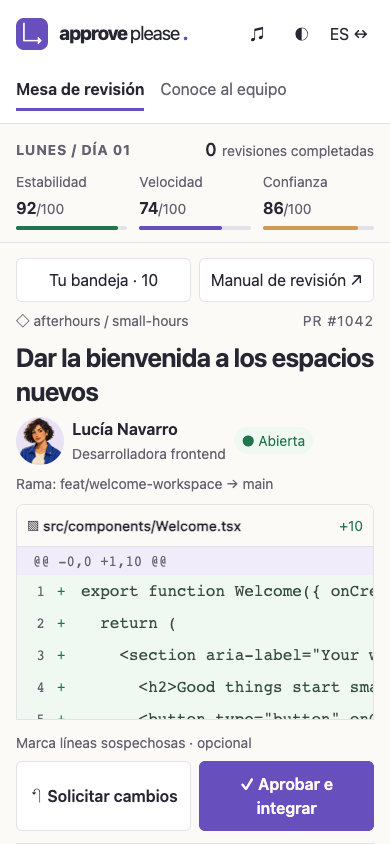
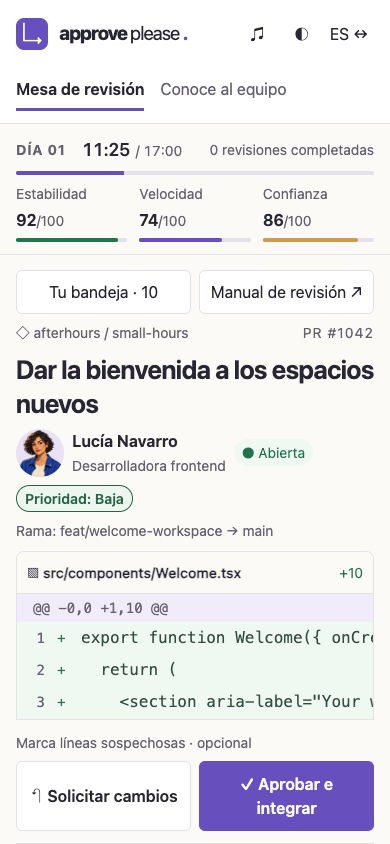
fix: restore shift time and PR priority in the review desk

Changed region(s): [[0.0308, 0.154, 0.9538, 0.8626], [0.8615, 0.6161, 0.9538, 0.7085], [0.1538, 0.7701, 0.1846, 0.8318]]

diff --git a/pages/dev/design.tsx b/pages/dev/design.tsx
@@ -1,4 +1,6 @@
 import Head from 'next/head';
+import { MS_PER_GAME_MINUTE, WORK_DAY_MINUTES } from '../../constants/game';
+import { minutesToClock } from '../../utils/helpers';
 import AudioControls from '../../components/common/AudioControls';
 import PRArrivalNotice from '../../components/common/PRArrivalNotice';
 import { useAudioCue } from '../../hooks/useAudioCue';
@@ -40,6 +42,9 @@ export default function DesignStudy() {
   const [reviewQueue, setReviewQueue] = useState(initialStudyQueue);
   const sequence = reviewQueue.active;
   const [reviewedCount, setReviewedCount] = useState(0);
+  const [day, setDay] = useState(1);
+  const [currentTime, setCurrentTime] = useState(0);
+  const shiftEnded = currentTime >= WORK_DAY_MINUTES;
   const person = studyTeam[sequence % studyTeam.length].id;
   const current = studyReview(sequence, locale);
   const profile = studyTeam[sequence % studyTeam.length];
@@ -49,6 +54,22 @@ export default function DesignStudy() {
   const audio = useAudioCue(meters);
   const arrivalNotice = usePRArrivalNotice(reviewQueue.pending.map(id => String(id)), audio.playArrivalCue);
   const [panel, setPanel] = useState<'rules' | 'queue' | 'audio' | null>(null);
+  // The local preview shares the game's clock rate. Pause while reading settings
+  // or meeting the cast; the live game clock remains owned by GameContext.
+  const clockRunning = view === 'desk' && panel === null && !shiftEnded;
+  useEffect(() => {
+    if (!clockRunning) return;
+    const timer = window.setInterval(() => setCurrentTime(minute => Math.min(minute + 1, WORK_DAY_MINUTES)), MS_PER_GAME_MINUTE);
+    return () => window.clearInterval(timer);
+  }, [clockRunning]);
+  const nextShift = () => {
+    setDay(value => value + 1);
+    setCurrentTime(0);
+    setReviewedCount(0);
+    setMeters(initialMeters);
+    setReceipt(null);
+    setSelected([]);
+  };
   const dialog = useRef<HTMLDialogElement>(null);
   const sidebar = useRef<HTMLElement>(null);
   useEffect(() => { sidebar.current?.querySelector('[aria-pressed="true"]')?.scrollIntoView({ block: 'nearest' }); }, [sequence]);
@@ -79,24 +100,25 @@ export default function DesignStudy() {
   }, [swipe]);
   const choose = (next: number) => { if (decisionLocked.current) return; setReviewQueue(queue => ({ ...queue, active: next })); setSelected([]); setSwipe(null); setPanel(null); };
   const decide = (verdict: ReviewVerdict) => {
-    if (decisionLocked.current) return;
+    if (decisionLocked.current || shiftEnded) return;
     decisionLocked.current = true;
     const result = evaluateDecision(normalizePullRequest(current), verdict, selected.map(n => ({ filename, rowId: `line-${n}` })), meters);
     setReviewedCount(count => count + 1);
     setReceipt({ ...result, person }); setMeters(result.metersAfter); setSwipe(verdict);
   };
-  const queue = <><div className={styles.queueHeading}><span>{t.waiting}</span><span>10</span></div>{reviewQueue.pending.map(next => { const coworker = studyTeam[next % studyTeam.length]; return <button key={next} disabled={completed} className={`${styles.queueItem} ${sequence === next ? styles.activeQueue : ''}`} onClick={() => choose(next)} aria-pressed={sequence === next}><div className={styles.queueMeta}><Portrait person={coworker.id} size={32} /><span>{coworker.name.split(' ')[0]}</span><span>#{1042 + next}</span></div><strong>{title(coworker.id)}</strong><small><span className={styles.dot} />{role(coworker.id)}</small></button>; })}</>;
+  const queue = <><div className={styles.queueHeading}><span>{t.waiting}</span><span>10</span></div>{reviewQueue.pending.map(next => { const coworker = studyTeam[next % studyTeam.length]; const importance = studyReview(next, locale).importance; return <button key={next} disabled={completed} className={`${styles.queueItem} ${sequence === next ? styles.activeQueue : ''}`} onClick={() => choose(next)} aria-pressed={sequence === next}><div className={styles.queueMeta}><Portrait person={coworker.id} size={32} /><span>{coworker.name.split(' ')[0]}</span><span>#{1042 + next}</span></div><strong>{title(coworker.id)}</strong><small><span className={styles.dot} />{role(coworker.id)}</small><span className={styles.priority} data-priority={importance}>{t.priority}: {translations.shared.importance[importance]}</span></button>; })}</>;
   const precision = receipt ? ({ precise: t.precise, untagged: t.untagged, inaccurate: t.inaccurate, mixed: t.mixed, 'not-applicable': t.notApplicable }[receipt.precision]) : '';
   const outcome = receipt ? ({ 'clean-approval': t.cleanOutcome, 'correct-rejection': t.caughtOutcome, 'buggy-approval': t.escapedOutcome, 'false-positive': t.falseOutcome }[receipt.outcome]) : '';
   return <div className={styles.study} data-dark={dark}>
     <Head><title>{`Approve Please · ${t.preview}`}</title></Head>
     <header className={styles.topbar}><Link className={styles.brand} href="/dev/design"><span className={styles.brandIcon}>↳</span>approve<span>please</span><span className={styles.brandPeriod}>.</span></Link><nav aria-label={t.preview}><button aria-pressed={view === 'desk'} onClick={() => setView('desk')}>{t.desk}</button><button aria-pressed={view === 'cast'} onClick={() => setView('cast')}>{t.cast}</button></nav><div className={styles.preferences}><button aria-label={translations.audio.settings} onClick={() => setPanel('audio')}>♫ <span>{translations.audio.button}</span></button><button aria-label={t.theme} onClick={() => setDark(!dark)}>{dark ? '☀' : '◐'} <span>{dark ? t.changeThemeLight : t.changeThemeDark}</span></button><button onClick={() => setLocale(locale === 'en' ? 'es' : 'en')} aria-label={locale === 'en' ? 'Cambiar a español' : 'Switch to English'}>{locale.toUpperCase()} ↔</button></div></header>
     {view === 'cast' ? <main className={styles.cast}><span className={styles.eyebrow}>{t.cast}</span><h1>{t.teamHeading}</h1><p>{t.teamIntro}</p><div className={styles.castGrid}>{people.map(who => <section className={styles.castCard} key={who}><div className={styles.castName}><h2>{names[who]}</h2><span>{role(who)}</span></div><div className={styles.expressions}>{(['neutral', 'pleased', 'concerned'] as const).map(expression => <figure key={expression}><Portrait person={who} expression={expression} size={160} /><figcaption>{t[expression]}</figcaption></figure>)}</div><div className={styles.scale}><span>{t.scale}</span><Portrait person={who} size={32} /><Portrait person={who} size={48} /></div><blockquote>“{studyTeam.find(p => p.id === who)!.quote[locale]}”</blockquote></section>)}</div><p>{t.portraitNote}</p><button className={styles.primary} onClick={() => setView('desk')}>{t.back} ↗</button></main> : <>
-      <div className={styles.shiftbar}><div><span className={styles.eyebrow}>{t.shift}</span><strong>{reviewedCount}<span> {t.reviewCount}</span></strong></div><div className={styles.meters}>{(Object.keys(meters) as (keyof MeterSet)[]).map(key => <div key={key}><span>{t[key]}<b>{meters[key]}<small>/100</small></b></span><i><em style={{ width: `${meters[key]}%` }} /></i></div>)}</div><span className={styles.shiftStamp}>↗ <span>{t.deskTitle}</span></span></div>
+      <div className={styles.shiftbar}><div><span className={styles.eyebrow}>{t.shift(day)}</span><strong><time aria-label={t.clock}>{minutesToClock(currentTime)}</time><span> / 17:00</span></strong><span className={styles.clockNote}>{shiftEnded ? t.shiftEnded : !clockRunning ? t.paused : `${reviewedCount} ${t.reviewCount}`}</span><progress className={styles.clockProgress} aria-label={t.clock} value={currentTime} max={WORK_DAY_MINUTES} /></div><div className={styles.meters}>{(Object.keys(meters) as (keyof MeterSet)[]).map(key => <div key={key}><span>{t[key]}<b>{meters[key]}<small>/100</small></b></span><i><em style={{ width: `${meters[key]}%` }} /></i></div>)}</div><span className={styles.shiftStamp}>↗ <span>{t.deskTitle}</span></span></div>
       <div className={styles.workspace}><aside ref={sidebar} className={styles.sidebar}><h1>{t.queue}</h1><p>{t.queueHint}</p><div className={styles.queueList}>{queue}</div><div className={styles.sidebarBottom}><span className={styles.handbookIcon}>⌘</span><h3>{t.rulesIntro}</h3><button onClick={() => setPanel('rules')}>{t.rules} ↗</button><small>{t.liveRules}</small></div></aside>
-      <main id="study-review" className={styles.main} data-swipe={swipe ?? undefined}><div className={styles.mobileTools}><button onClick={() => setPanel('queue')}>{t.queue} · 10</button><button onClick={() => setPanel('rules')}>{t.rules} ↗</button></div><div className={styles.repo}><span>◇ {t.repository}</span><span>PR #{1042 + sequence}</span></div><div className={styles.prHeading}><div><h1>{title(person)}</h1><div className={styles.author}><Portrait person={person} size={48} expression={completed && receipt ? (receipt.outcome === 'clean-approval' || receipt.outcome === 'correct-rejection' ? 'pleased' : 'concerned') : 'neutral'} /><div><strong>{names[person]}</strong><span>{role(person)}</span></div><span className={styles.openBadge}>● {completed ? t.reviewedBadge : t.open}</span></div></div><span className={styles.prGlyph} aria-hidden>↳</span></div><p className={styles.description}>{t.branch}: feat/{profile.branch} → main</p>
-      <section className={styles.diff} aria-label={t.codeLabel}><div className={styles.fileHeader}><span>▧ <strong>{filename}</strong></span><span className={styles.additionCount}>+{current.files[0].lines.length} <span>{t.additions}</span></span></div><div className={styles.codeScroll} tabIndex={0} aria-label={t.codeLabel}><div className={styles.hunk}>@@ -0,0 +1,{current.files[0].lines.length} @@</div>{current.files[0].lines.map(({ content: line }, i) => <button key={`${person}-${i}`} className={`${styles.codeLine} ${styles.addition} ${selected.includes(i + 1) ? styles.selected : ''}`} disabled={completed} aria-pressed={selected.includes(i + 1)} aria-label={`${t.select} ${i + 1}: ${line}`} onClick={() => setSelected(s => s.includes(i + 1) ? s.filter(n => n !== i + 1) : [...s, i + 1])}><span className={styles.lineNumber}>{i + 1}</span><span className={styles.lineMarker}>{selected.includes(i + 1) ? '●' : '+'}</span><code>{line || ' '}</code></button>)}</div></section>
-      <div className={styles.decisionBar}><div><strong>{selected.length ? `${selected.length} ${t.selected}` : t.optional}</strong>{selected.length > 0 && !completed && <button onClick={() => setSelected([])}>{t.clear}</button>}</div><div className={styles.verdicts}><button className={styles.request} disabled={completed} onClick={() => decide('request-changes')}>↶ {t.request}</button><button className={styles.primary} disabled={completed} onClick={() => decide('approve')}>✓ {t.approve}</button></div></div>
+      <main id="study-review" className={styles.main} data-swipe={swipe ?? undefined}><div className={styles.mobileTools}><button onClick={() => setPanel('queue')}>{t.queue} · 10</button><button onClick={() => setPanel('rules')}>{t.rules} ↗</button></div><div className={styles.repo}><span>◇ {t.repository}</span><span>PR #{1042 + sequence}</span></div><div className={styles.prHeading}><div><h1>{title(person)}</h1><div className={styles.author}><Portrait person={person} size={48} expression={completed && receipt ? (receipt.outcome === 'clean-approval' || receipt.outcome === 'correct-rejection' ? 'pleased' : 'concerned') : 'neutral'} /><div><strong>{names[person]}</strong><span>{role(person)}</span></div><span className={styles.openBadge}>● {completed ? t.reviewedBadge : t.open}</span><span className={styles.priority} data-priority={current.importance}>{t.priority}: {translations.shared.importance[current.importance]}</span></div></div><span className={styles.prGlyph} aria-hidden>↳</span></div><p className={styles.description}>{t.branch}: feat/{profile.branch} → main</p>
+      {shiftEnded && <section className={styles.shiftEnd} aria-labelledby="shift-end-title"><div role="status"><h2 id="shift-end-title">{t.shiftEnded}</h2><p>{reviewedCount} {t.reviewCount}. {t.shiftSummary}</p></div><button className={styles.primary} onClick={nextShift} disabled={completed}>{t.nextShift}</button></section>}
+      <section className={styles.diff} aria-label={t.codeLabel}><div className={styles.fileHeader}><span>▧ <strong>{filename}</strong></span><span className={styles.additionCount}>+{current.files[0].lines.length} <span>{t.additions}</span></span></div><div className={styles.codeScroll} tabIndex={0} aria-label={t.codeLabel}><div className={styles.hunk}>@@ -0,0 +1,{current.files[0].lines.length} @@</div>{current.files[0].lines.map(({ content: line }, i) => <button key={`${person}-${i}`} className={`${styles.codeLine} ${styles.addition} ${selected.includes(i + 1) ? styles.selected : ''}`} disabled={completed || shiftEnded} aria-pressed={selected.includes(i + 1)} aria-label={`${t.select} ${i + 1}: ${line}`} onClick={() => setSelected(s => s.includes(i + 1) ? s.filter(n => n !== i + 1) : [...s, i + 1])}><span className={styles.lineNumber}>{i + 1}</span><span className={styles.lineMarker}>{selected.includes(i + 1) ? '●' : '+'}</span><code>{line || ' '}</code></button>)}</div></section>
+      <div className={styles.decisionBar}><div><strong>{selected.length ? `${selected.length} ${t.selected}` : t.optional}</strong>{selected.length > 0 && !completed && <button onClick={() => setSelected([])}>{t.clear}</button>}</div><div className={styles.verdicts}><button className={styles.request} disabled={completed || shiftEnded} onClick={() => decide('request-changes')}>↶ {t.request}</button><button className={styles.primary} disabled={completed || shiftEnded} onClick={() => decide('approve')}>✓ {t.approve}</button></div></div>
       <span className={styles.screenReaderStatus} role="status">{receipt ? `${names[receipt.person]}: ${outcome} ${precision}` : ''}</span>
 </main></div>
     </>}

diff --git a/styles/DesignStudy.module.css b/styles/DesignStudy.module.css
@@ -149,3 +149,29 @@
 .brandIcon { width:2rem; height:2rem; flex-shrink:0; font-size:1.5rem; }
 
 .preferences { max-width:100%; flex-wrap:wrap; }
+
+/* Time pressure and priority remain visible independently of code correctness. */
+.shiftbar strong { display:flex; align-items:baseline; gap:.375rem; font-variant-numeric:tabular-nums; }
+.shiftbar strong>span { display:inline; margin:0; }
+.clockNote { font-size:.875rem; color:var(--subtle); }
+.clockProgress { width:100%; height:.25rem; border:0; border-radius:1rem; overflow:hidden; background:var(--line); color:var(--purple); accent-color:var(--purple); }
+.clockProgress::-webkit-progress-bar { background:var(--line); }
+.clockProgress::-webkit-progress-value { background:var(--purple); }
+.clockProgress::-moz-progress-bar { background:var(--purple); }
+.priority { display:inline-flex; align-items:center; width:fit-content; border:1px solid currentColor; border-radius:1rem; padding:.125rem .5rem; font-size:.875rem; font-weight:600; line-height:1.5; }
+.queueItem>.priority { margin-top:.5rem; }
+.priority[data-priority='low'] { color:#276344; background:#edf5ef; }
+.priority[data-priority='normal'] { color:#77520a; background:#fff4d6; }
+.priority[data-priority='high'] { color:#a13043; background:#ffedf0; }
+.study[data-dark='true'] .priority[data-priority='low'] { color:#a9dfb9; background:#24372f; }
+.study[data-dark='true'] .priority[data-priority='normal'] { color:#f5d486; background:#403620; }
+.study[data-dark='true'] .priority[data-priority='high'] { color:#ffb1bf; background:#452734; }
+.shiftEnd { flex-shrink:0; padding:1rem; margin-bottom:1rem; border:1px solid var(--purple); border-radius:.5rem; background:var(--wash); }
+.shiftEnd h2 { font-size:1.25rem; margin:0; }
+.shiftEnd p { margin:.5rem 0 1rem; }
+.shiftEnd button { min-height:2.75rem; padding:.5rem 1rem; }
+@media(max-width:700px) {
+  .clockProgress { flex-basis:100%; }
+  .clockNote { margin-left:auto; }
+  .author>.priority { margin-left:0; }
+}

diff --git a/constants/designStudyCopy.ts b/constants/designStudyCopy.ts
@@ -14,7 +14,13 @@ export const designStudyCopy = {
     rulesBody: 'Approve changes that are safe to ship. Request changes when you find a bug. Tagging is optional: a correct rejection still counts. Precise tags earn a bonus; unrelated tags do not.',
     rulesNote: 'Keep moving: each verdict takes you straight to the next pull request.',
     close: 'Close',
-    shift: 'MONDAY / DAY 01',
+    shift: (day: number) => `DAY ${String(day).padStart(2, '0')}`,
+    clock: 'Shift time',
+    paused: 'Paused',
+    shiftEnded: 'Shift complete',
+    shiftSummary: 'The day is done. Your pending reviews carry into the next shift.',
+    nextShift: 'Start next shift',
+    priority: 'Priority',
     stability: 'Stability',
     velocity: 'Velocity',
     satisfaction: 'Team trust',
@@ -68,7 +74,13 @@ export const designStudyCopy = {
     rulesBody: 'Aprueba los cambios seguros. Solicita cambios si encuentras un error. Marcar líneas es opcional: un rechazo correcto sigue contando. Las marcas precisas dan una bonificación; las incorrectas no.',
     rulesNote: 'Sigue avanzando: cada decisión te lleva directamente a la siguiente PR.',
     close: 'Cerrar',
-    shift: 'LUNES / DÍA 01',
+    shift: (day: number) => `DÍA ${String(day).padStart(2, '0')}`,
+    clock: 'Hora del turno',
+    paused: 'En pausa',
+    shiftEnded: 'Turno completado',
+    shiftSummary: 'El día ha terminado. Las revisiones pendientes pasan al siguiente turno.',
+    nextShift: 'Empezar el siguiente turno',
+    priority: 'Prioridad',
     stability: 'Estabilidad',
     velocity: 'Velocidad',
     satisfaction: 'Confianza',

diff --git a/constants/designStudyTeam.ts b/constants/designStudyTeam.ts
@@ -312,7 +312,7 @@ export function studyReview(sequence: number, locale: StudyLocale): PullRequest 
   // Alternating editions ensure no coworker's identity predicts correctness.
   const flawed = (sequence % studyTeam.length + Math.floor(sequence / studyTeam.length)) % 2 === 1;
   return { id: `afterhours-${1042 + sequence}`, templateId: `study-${person.id}-${flawed ? 'flawed' : 'clean'}`,
-    title: person.title[locale], author: person.name, authorId: person.id, description: '', tags: [], importance: 'normal', estimatedReviewSeconds: 30,
+    title: person.title[locale], author: person.name, authorId: person.id, description: '', tags: [], importance: (['low', 'normal', 'high'] as const)[sequence % studyTeam.length % 3], estimatedReviewSeconds: 30,
     files: [{ filename: person.filename, language: 'typescript', lines: person.lines.map((content, i) => ({ content: flawed && i + 1 === person.bugLine ? person.flawedLine : content, lineNumber: i + 1, isNew: true })) }],
     bugPatterns: flawed ? [{ kind: person.bugKind as BugKind, severity: person.bugKind === 'security' ? 'critical' : 'major', lineNumbers: [person.bugLine] }] : [] };
 }

diff --git a/tests/designStudy.test.ts b/tests/designStudy.test.ts
@@ -35,6 +35,19 @@ describe('full team review scenarios', () => {
     }
   });
 
+  it('offers all three priorities with both safe and flawed work at each level', () => {
+    const editions = Array.from({ length: 20 }, (_, index) => studyReview(index, 'en'));
+    for (const importance of ['low', 'normal', 'high']) {
+      const matching = editions.filter(pr => pr.importance === importance);
+      expect(matching.some(pr => pr.bugPatterns.length === 0)).toBe(true);
+      expect(matching.some(pr => pr.bugPatterns.length > 0)).toBe(true);
+    }
+    for (let index = 0; index < 10; index += 1) {
+      expect(editions[index].importance).toBe(editions[index + 10].importance);
+      expect(studyReview(index, 'es').importance).toBe(editions[index].importance);
+    }
+  });
+
   it('evaluates every clean edition and every precisely tagged flawed edition', () => {
     for (let index = 0; index < 20; index += 1) {
       const pr = studyReview(index, 'en');

diff --git a/constants/i18n.ts b/constants/i18n.ts
@@ -47,12 +47,12 @@ const importanceLabels: Record<
 > = {
   en: {
     low: "Low",
-    normal: "Normal",
+    normal: "Medium",
     high: "High",
   },
   es: {
     low: "Baja",
-    normal: "Normal",
+    normal: "Media",
     high: "Alta",
   },
 };

diff --git a/docs/design-study/README.md b/docs/design-study/README.md
@@ -2,13 +2,13 @@
 
 Open `/dev/design` on the development server. The page presents the Afterhours studio's Small Hours repository with ten coworkers and twenty curated review editions. Each coworker submits both clean and flawed code. PR numbers start at #1042 and increase with the sequence; selecting a later item opens it while preserving earlier pending requests. A verdict removes only the reviewed PR, then opens the oldest pending item and replenishes the queue. The twenty editions repeat cyclically.
 
-Approve/reject updates meters once and advances automatically after a 200 ms directional swipe. Reduced motion skips the animation. Optional tags clear on the next PR. There is no Last review panel, manual next arrow, Reset study control, study banner or arbitrary sample label. Structured results are announced to assistive technology. The header reports actual completed reviews rather than a simulated clock.
+Approve/reject updates meters once and advances automatically after a 200 ms directional swipe. Reduced motion skips the animation. Optional tags clear on the next PR. There is no Last review panel, manual next arrow, Reset study control, study banner or arbitrary sample label. Structured results are announced to assistive technology. The header shows the current time and a shift-progress bar alongside the completed-review count. The clock shares the game’s 09:00–17:00 window and two-minute real-time pace. It pauses in dialogs and the team view, stops at 17:00, and disables verdicts until the player starts the next shift. Pending PRs carry forward; local meters reset for the next preview shift.
 
 The team view shows neutral, pleased and concerned illustrated portraits, localized roles and personality lines for Lucía, Diego, Inés, Tessa, Ben, Jonah, Marta, Evan, Noel and Riya. Unknown/missing assets have an initials fallback with accessible names.
 
 ## Integration boundary
 
-This is a development-only preview. Production requests return 404. It uses local state and the pure evaluator; it has no real clock, incoming queue delivery, tutorial, shift completion, save or leaderboard writes. The actual `/game` retains its existing desk/game loop and now shares the new audio controls and arrival notice. Production readiness tasks are explicit in `docs/ui-direction.md` and the roadmap.
+This is a development-only preview. Production requests return 404. It uses local state and the pure evaluator; it has a local advancing clock and shift boundary, but no live GameContext clock, timed wave delivery, tutorial, campaign progression, save or leaderboard writes. The actual `/game` retains its existing desk/game loop and now shares the new audio controls and arrival notice. Production readiness tasks are explicit in `docs/ui-direction.md` and the roadmap.
 
 ## Verification
 
@@ -25,3 +25,9 @@ The desk now uses 16 px code/body/actions and 14 px supporting text, with relati
 Open Sound to enable background music and/or PR chimes. Both start off; volume starts at 25%. The instrumental rhythm speeds up as the lowest meter falls (72–144 BPM). New PR IDs produce a short two-note chime when enabled, and a visual/polite notice regardless of audio. Selecting an already queued PR is silent. The same controls are available in the existing live WorkScreen.
 
 Latest follow-up gates: 524 tests pass with one worker; typecheck/build pass; lint retains five existing warnings. Audio controls are shown in audio-settings.png; pr-arrival.png shows the non-blocking notice.
+
+
+## Clock and PR priority restoration
+All queue cards and the active review display localized Low/Medium/High priority badges (Baja/Media/Alta). Priority remains the existing `low | normal | high` contract and is independent of clean/flawed editions. Badges use readable text as well as color, at 14 px minimum. The shared middle-priority label now reads Medium/Media in the existing live queue too.
+
+Verification: 525 tests pass with one worker; typecheck and production build pass; all 390 templates validate with manifests unchanged. Lint has zero errors and five existing warnings. Browser clock checks exercise 09:00 → 10:00 in 15 real seconds, pause/resume in settings, automatic advance, the 17:00 boundary, disabled verdicts, next-shift reset and preservation of pending PRs. Live tutorial/waves/scoring migration remains Phase 2.

diff --git a/plans/013-ui-ux-characters-and-authoring.md b/plans/013-ui-ux-characters-and-authoring.md
@@ -235,3 +235,11 @@ Full-cast gates: 510 tests pass with one worker; typecheck/build pass; lint reta
 - [ ] Persist audio channel preferences across shifts/reloads with reliable resume behavior.
 - [ ] Finish full OS/browser-zoom, screen-reader and observed low-vision usability audit.
 Detailed implementation/verification: docs/audio-and-readability-plan.md and docs/readability-audit.md. This follow-up adds audio to the live desk but does not migrate the new desk's clock/queue/tutorial/scoring integration.
+
+
+## Clock and priority — owner follow-up
+- [x] Restore advancing 09:00–17:00 time and shift progress using the existing two-minute pace.
+- [x] Pause the local preview clock in dialogs/team view; stop verdicts at shift end and carry pending PRs forward when starting the next preview shift.
+- [x] Restore localized Low/Medium/High priority labels on queue cards and the active PR, independent of bug correctness.
+- [x] Verify clock pace, pause/resume, day boundary, auto-advance, next-shift carryover and narrow-screen readability.
+- [ ] Connect this presentation to live GameContext time, mandatory waves, tutorial and real campaign day transitions in Phase 2. The local preview clock does not replace those systems.
